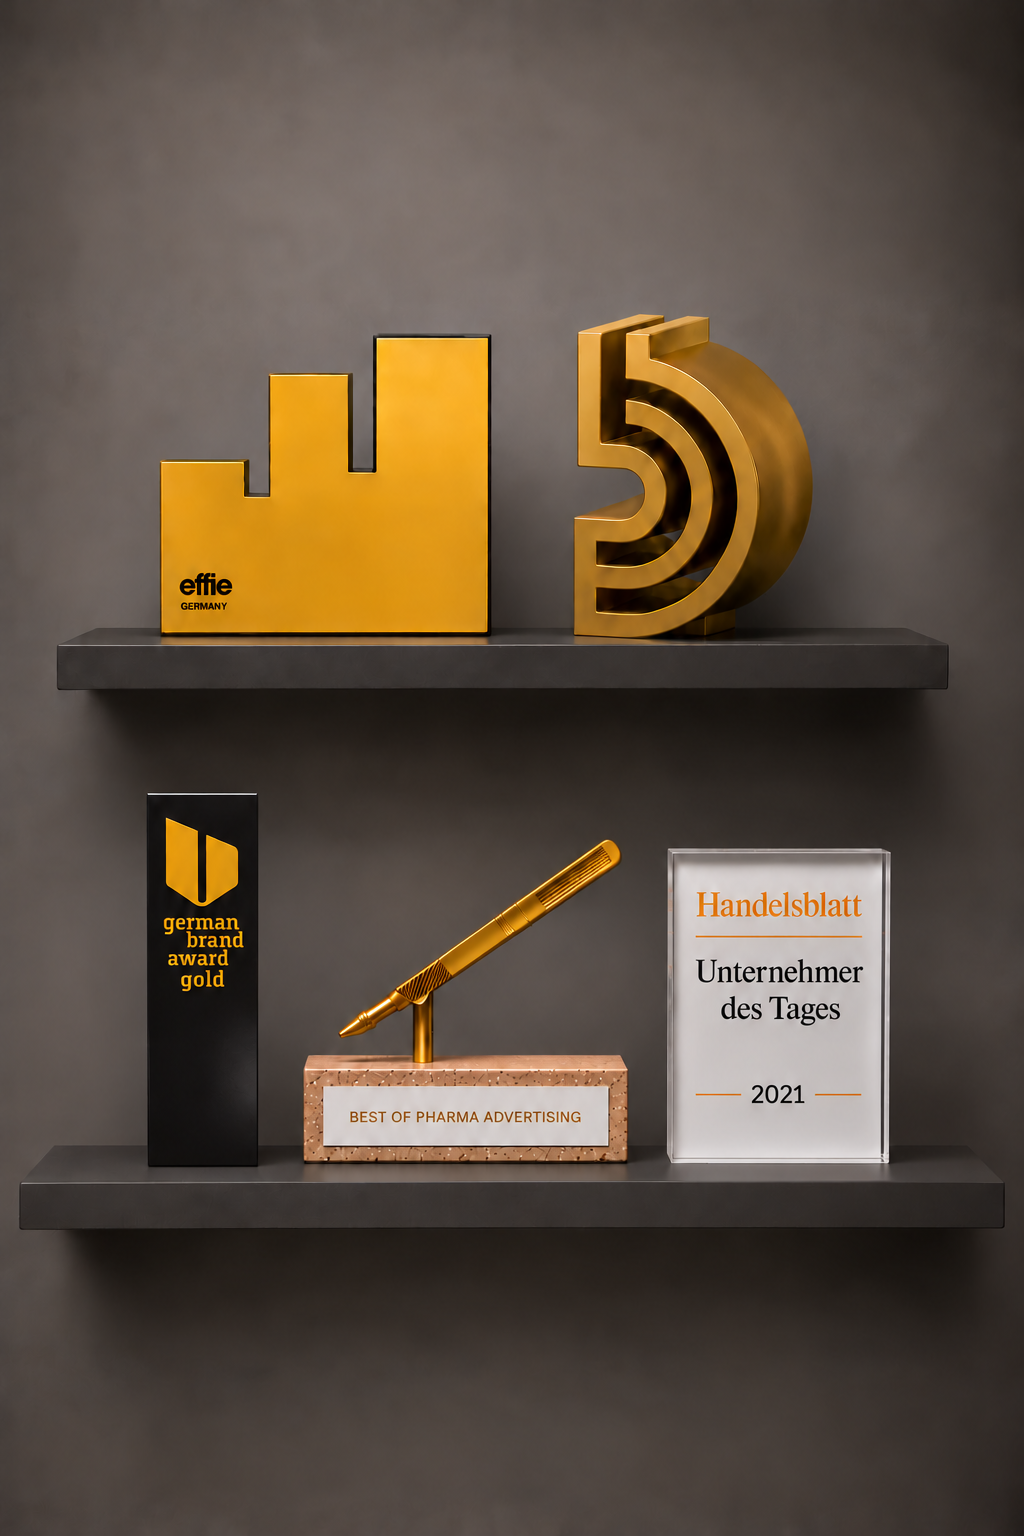
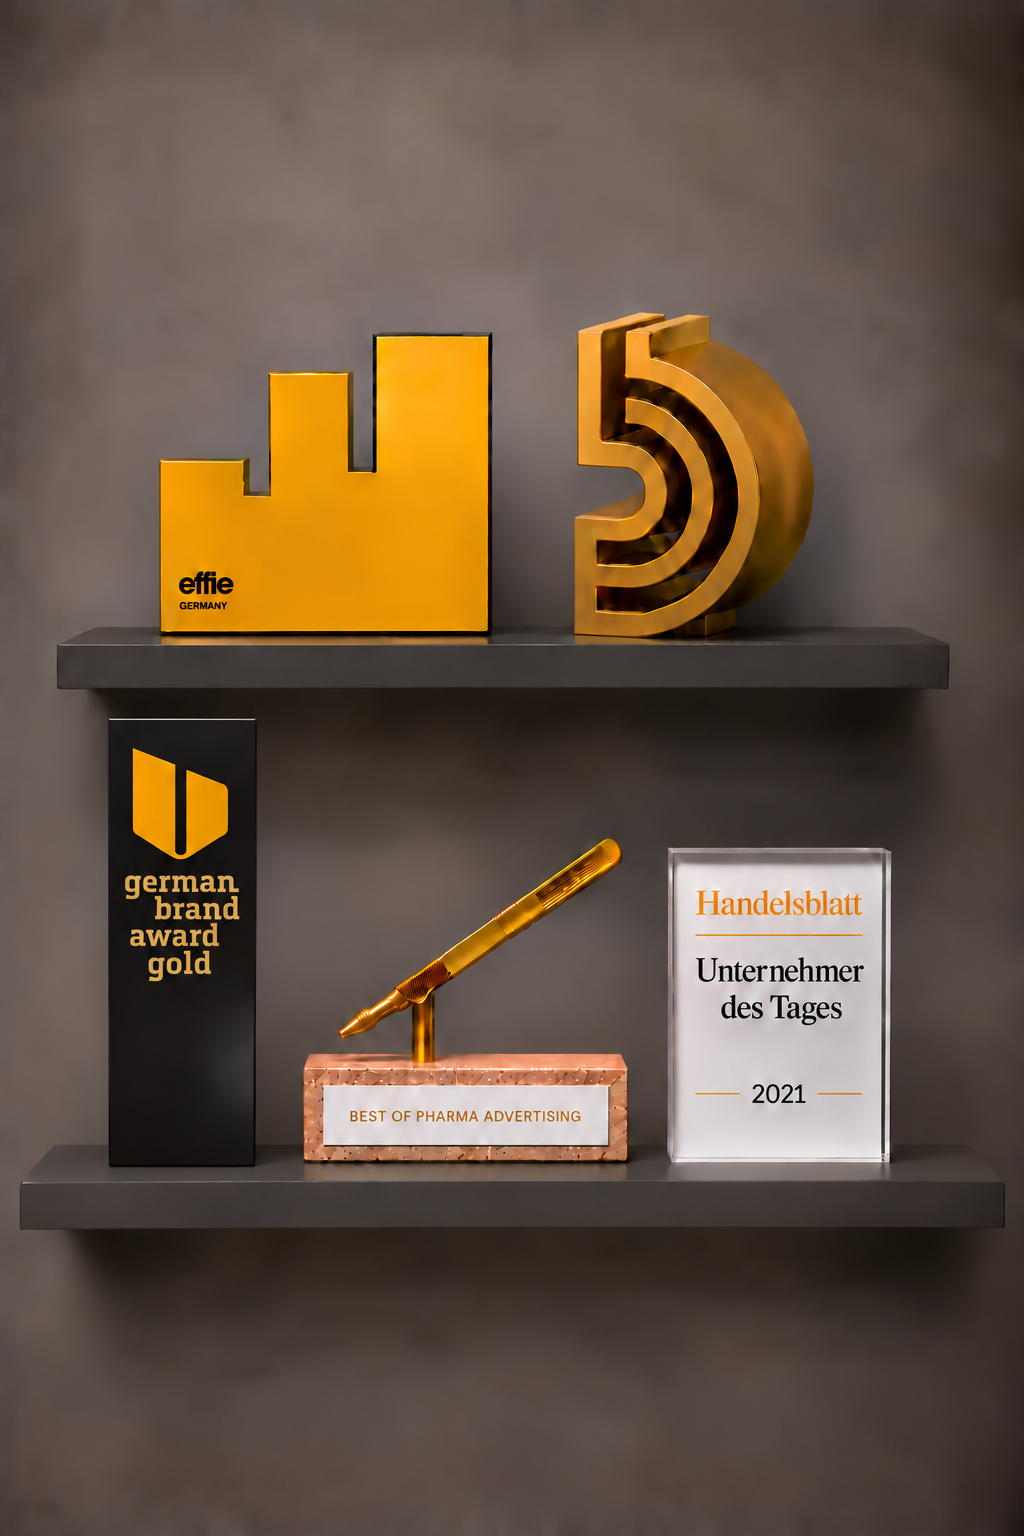
German Brand Award in mobile 20% größer

diff --git a/index.html b/index.html
@@ -824,7 +824,7 @@
     <span class="kicker">Auszeichnungen</span>
     <h2>Prämiert für wirksame Marken- und Wachstumsarbeit.</h2>
     <picture>
-      <source media="(max-width: 760px)" srcset="images/Bild%20Awards%20mobile%20German%20Brand%20Award%20Gold.png?v=20261024-2">
+      <source media="(max-width: 760px)" srcset="images/Bild%20Awards%20mobile%20German%20Brand%20Award%20Gold.png?v=20261024-5">
       <img src="images/Bild%20Awards%20f%C3%BCr%20Website%202.png?v=20261024-5" alt="Auszeichnungen">
     </picture>
   </div>
